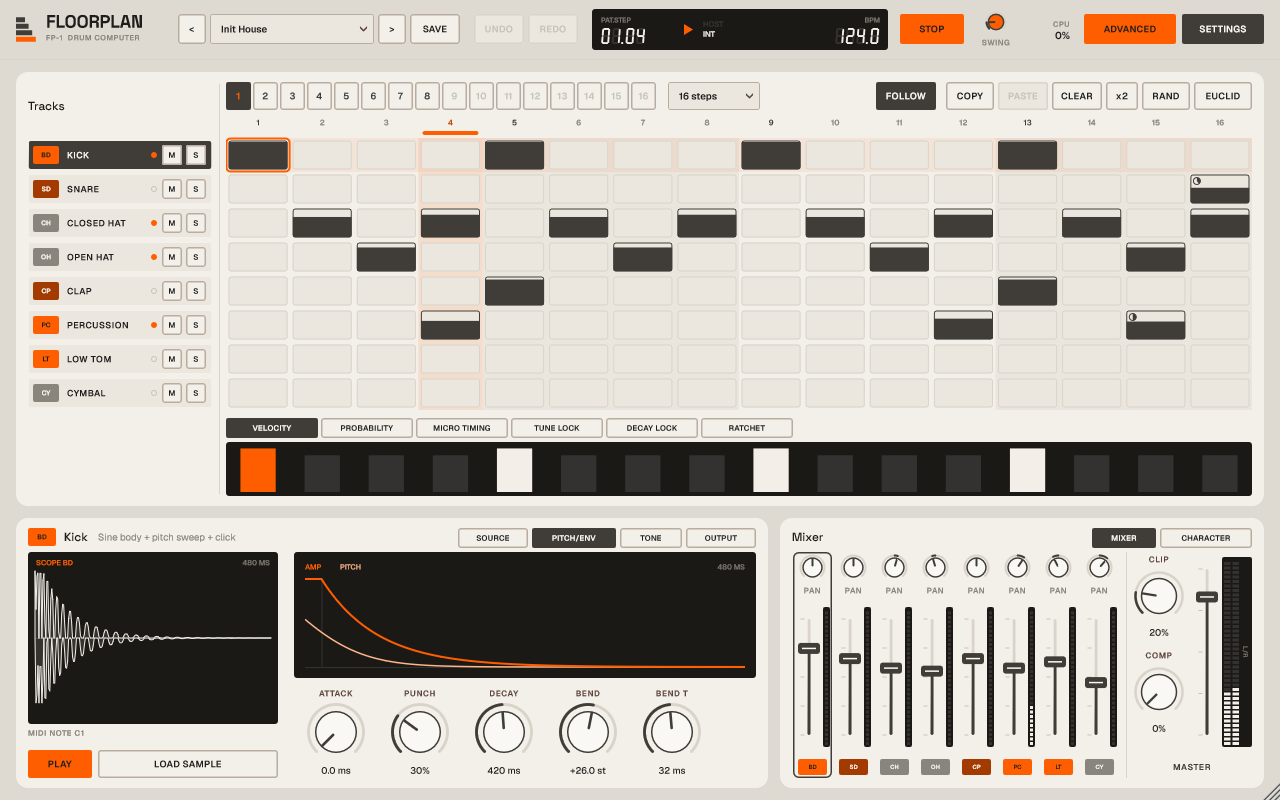
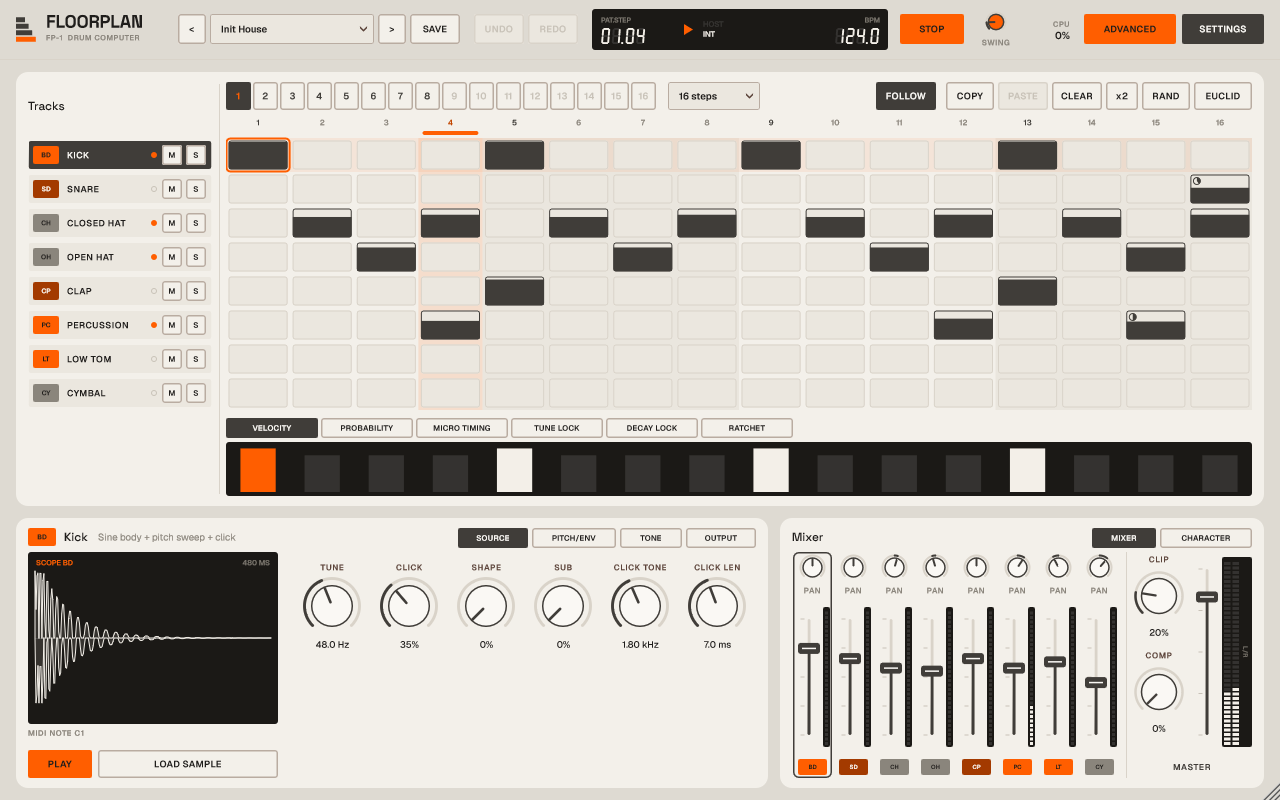
Fix review findings on the new design language
- Make Floorplan's look and feel the default while the editor is open,
  so tooltips, toggle labels and dialogs use Geist and the new palette.
  JUCE resolves default fonts and top-level dialogs through the default
  look and feel, so the getTypefaceForFont override never ran before.
- Add plugin test embedded_fonts_load: every embedded face must load,
  so a font the platform rejects fails CI instead of falling back.
- Grey (metal) badges get dark text: the light/dark text threshold
  moves from 0.55 to 0.5 brightness (about 3.5:1 -> 4.6:1 contrast).
- Remove the unused KeyStyle::primary.
- README screenshots regenerated.

Changed region(s): [[0.2188, 0.6562, 0.5938, 0.9688]]

diff --git a/Source/UI/LookAndFeel.h b/Source/UI/LookAndFeel.h
@@ -25,7 +25,7 @@ inline const juce::Colour grey        { 0xff8a857c }; // Tertiary: captions, ina
 inline const juce::Colour greyLight   { 0xffc8c2b8 }; // inactive marks
 inline const juce::Colour paper       { 0xfffaf8f4 }; // control faces, text on dark
 inline const juce::Colour accent      { 0xffff5e00 }; // Primary orange
-inline const juce::Colour accentDeep  { 0xffa33a00 }; // primary buttons, selection
+inline const juce::Colour accentDeep  { 0xffa33a00 }; // selections
 inline const juce::Colour accentText  { 0xffc24600 }; // orange text on light surfaces
 inline const juce::Colour accentSoft  { 0xffffb48a }; // orange tint (on dark screens)
 inline const juce::Colour danger      { 0xffc8232b }; // clipping, destructive actions
@@ -101,10 +101,10 @@ void drawLed (juce::Graphics& g, juce::Point<float> centre, float radius, juce::
 void drawBadge (juce::Graphics& g, juce::Rectangle<float> area, int voice);
 
 // Button styles, stored as the component property "key". light is the
-// Outlined button, dark the Inverted one, orange the bright Label action and
-// primary the deep orange Primary button. A toggled-on button fills with its
-// buttonOnColourId (Secondary charcoal by default).
-enum class KeyStyle { light, dark, orange, primary };
+// Outlined button, dark the Inverted one and orange the bright Label action.
+// A toggled-on button fills with its buttonOnColourId (Secondary charcoal by
+// default).
+enum class KeyStyle { light, dark, orange };
 void setKeyStyle (juce::Component& c, KeyStyle style);
 
 class FloorplanLookAndFeel final : public juce::LookAndFeel_V4

diff --git a/Source/UI/LookAndFeel.cpp b/Source/UI/LookAndFeel.cpp
@@ -14,7 +14,7 @@ constexpr float kCardCorner = 12.0f;
 
 // Dark text on bright orange (as on the design's Label button), light text on
 // deep orange, charcoal and grey.
-bool isLight (juce::Colour c) { return c.getPerceivedBrightness() > 0.55f; }
+bool isLight (juce::Colour c) { return c.getPerceivedBrightness() > 0.5f; }
 
 juce::Colour capColour (const juce::Component& c, juce::Colour fallback)
 {
@@ -340,7 +340,6 @@ juce::Colour FloorplanLookAndFeel::faceColour (juce::Button& b, bool over, bool 
         {
             case KeyStyle::dark:    face = over ? colours::inkSoft : colours::ink; break;
             case KeyStyle::orange:  face = over ? colours::accent.brighter (0.15f) : colours::accent; break;
-            case KeyStyle::primary: face = over ? colours::accentDeep.brighter (0.15f) : colours::accentDeep; break;
             case KeyStyle::light:
             default:                face = down ? colours::line : (over ? colours::neutral : colours::panel); break;
         }

diff --git a/Source/UI/MainComponent.cpp b/Source/UI/MainComponent.cpp
@@ -16,6 +16,8 @@ const juce::Identifier kAdvancedProperty { "uiAdvancedMode" };
 MainComponent::MainComponent (FloorplanProcessor& p) : proc (p)
 {
     setLookAndFeel (&lookAndFeel);
+    // Dialogs, tooltips and default-font text use the default look and feel.
+    juce::LookAndFeel::setDefaultLookAndFeel (&lookAndFeel);
     setWantsKeyboardFocus (true);
 
     for (auto* c : std::initializer_list<juce::Component*> { &header, &instruments, &sequencer, &sound, &groove, &mixer })
@@ -45,6 +47,9 @@ MainComponent::~MainComponent()
 {
     stopTimer();
     setLookAndFeel (nullptr);
+    // shortcut: with two editors open, closing the newer one reverts the other's dialogs to JUCE's look until it reopens.
+    if (&juce::LookAndFeel::getDefaultLookAndFeel() == &lookAndFeel)
+        juce::LookAndFeel::setDefaultLookAndFeel (nullptr);
 }
 
 void MainComponent::setAdvanced (bool shouldBeAdvanced)

diff --git a/Tests/PluginTests.cpp b/Tests/PluginTests.cpp
@@ -905,6 +905,13 @@ FP_TEST (character_and_choke_controls_change_the_sound)
     CHECK (unchoked != plain);
 }
 
+FP_TEST (embedded_fonts_load)
+{
+    // A font the platform rejects would silently fall back to a system font.
+    for (auto face : { ui::Face::body, ui::Face::bodyMedium, ui::Face::bodySemiBold, ui::Face::headline, ui::Face::headlineBold })
+        CHECK (ui::typeface (face) != nullptr);
+}
+
 // Renders the real editor offscreen to a PNG (used for docs screenshots and
 // as a smoke test that the whole UI can be constructed and painted).
 static void clickButtonNamed (juce::Component& root, const juce::String& text)
